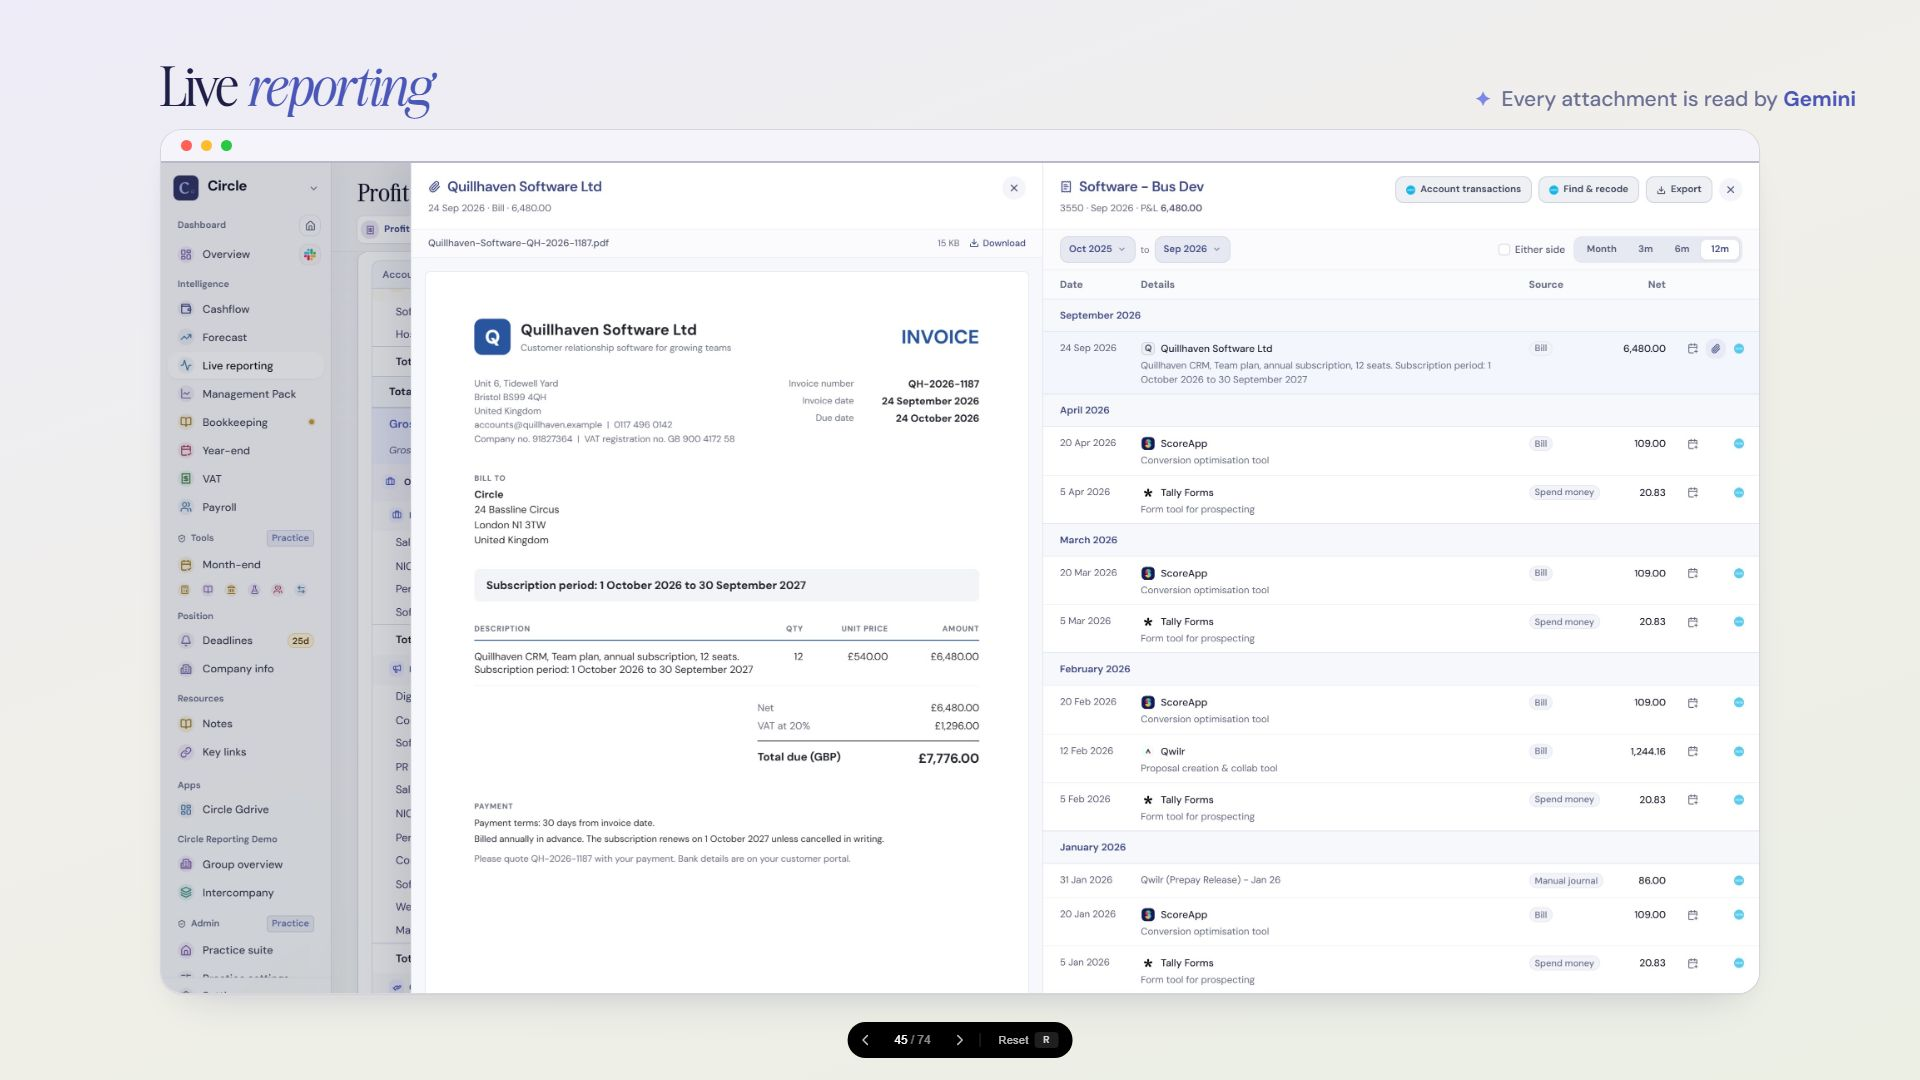
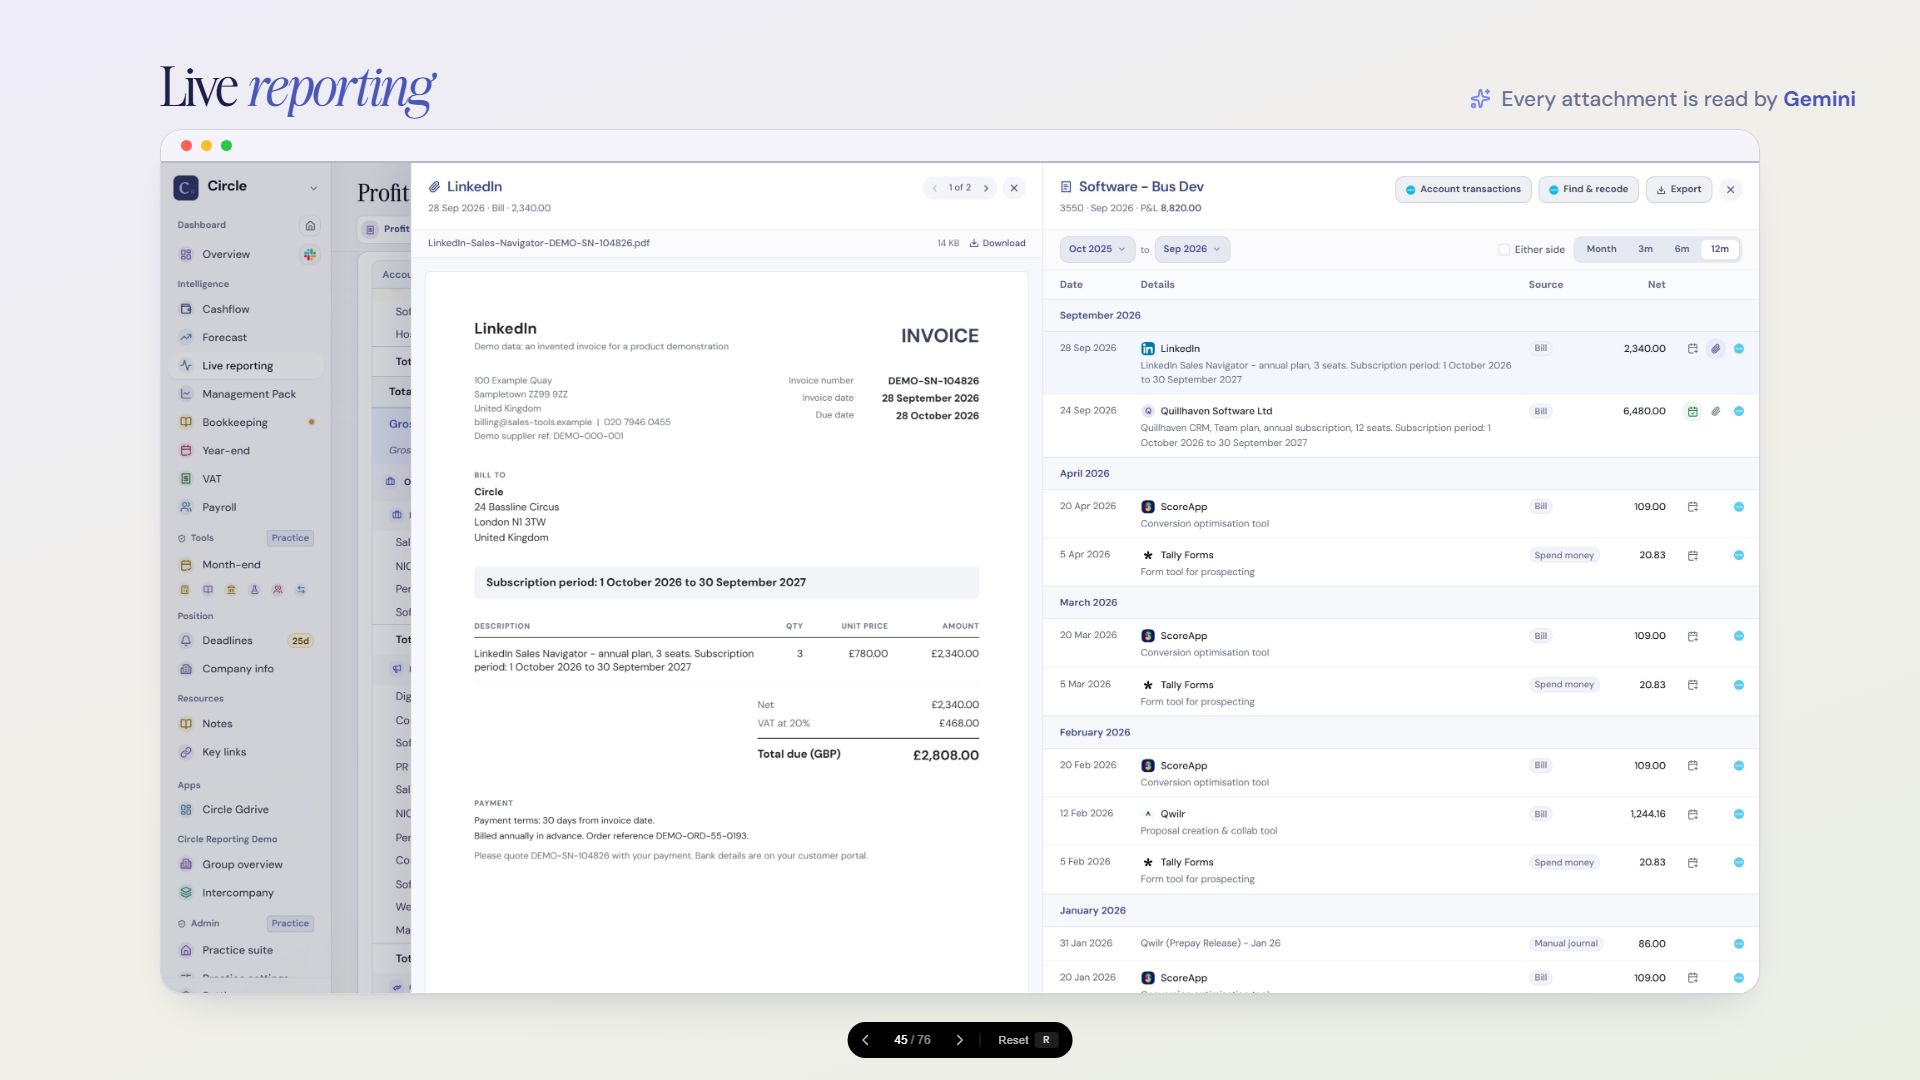
Auto Bank Wreck: the live reporting and AI findings run on the LinkedIn bill

diff --git a/presentations/auto-bank-wreck/index.html b/presentations/auto-bank-wreck/index.html
@@ -2852,7 +2852,7 @@ deck-stage { background: #0a0a0a; }
       <div class="feat-head"><h2 class="display">Live <em>reporting</em></h2><p class="ai-note">Every attachment is read by <b>Gemini</b></p></div>
       <div class="fill center-y">
         <div class="shot-wrap">
-          <figure class="shot window"><img src="images/slides/41a-app-showcase/live-1-pl-oct06.jpg" alt="Circle live profit and loss, straight from Xero: every account month by month against budget"><figcaption></figcaption></figure>
+          <figure class="shot window"><img src="images/slides/41a-app-showcase/live-1-pl-li.jpg" alt="Circle live profit and loss, straight from Xero: every account month by month against budget"><figcaption></figcaption></figure>
         </div>
       </div>
 
@@ -2867,7 +2867,7 @@ deck-stage { background: #0a0a0a; }
       <div class="feat-head"><h2 class="display">Live <em>reporting</em></h2><p class="ai-note">Every attachment is read by <b>Gemini</b></p></div>
       <div class="fill center-y">
         <div class="shot-wrap">
-          <figure class="shot window"><img src="images/slides/41a-app-showcase/live-2-listing-oct06.jpg" alt="One figure opened to its transactions: twelve months of software bills, each with its supplier logo"><figcaption></figcaption></figure>
+          <figure class="shot window"><img src="images/slides/41a-app-showcase/live-2-listing-li.jpg" alt="One figure opened to its transactions: twelve months of software bills, each with its supplier logo"><figcaption></figcaption></figure>
         </div>
       </div>
 
@@ -2882,7 +2882,7 @@ deck-stage { background: #0a0a0a; }
       <div class="feat-head"><h2 class="display">Live <em>reporting</em></h2><p class="ai-note">Every attachment is read by <b>Gemini</b></p></div>
       <div class="fill center-y">
         <div class="shot-wrap">
-          <figure class="shot window"><img src="images/slides/41a-app-showcase/live-3-invoice-oct06.jpg" alt="One of those bills opened to the invoice attached in Xero: an annual subscription with its subscription period"><figcaption></figcaption></figure>
+          <figure class="shot window"><img src="images/slides/41a-app-showcase/live-3-invoice-li.jpg" alt="One of those bills opened to the invoice attached in Xero: an annual subscription with its subscription period"><figcaption></figcaption></figure>
         </div>
       </div>
 
@@ -2897,8 +2897,8 @@ deck-stage { background: #0a0a0a; }
       <div class="feat-head"><h2 class="display">Live <em>reporting</em></h2><p class="ai-note">Every attachment is read by <b>Gemini</b></p></div>
       <div class="fill center-y">
         <div class="shot-wrap">
-          <i class="lens" aria-hidden="true" style="left: 430px; top: 284px; width: 340px; height: 340px; background-size: 2214px auto; background-image: url('images/slides/41a-app-showcase/live-4-menu-oct06.jpg'); background-position: -1819px -220px;"></i>
-          <figure class="shot window"><img src="images/slides/41a-app-showcase/live-4-menu-oct06.jpg" alt="The same bill opened to its schedule menu: add prepayment, add accrual, or attach the invoice to an accrual already in the schedule"><figcaption></figcaption></figure>
+          <i class="lens" aria-hidden="true" style="left: 430px; top: 284px; width: 340px; height: 340px; background-size: 2214px auto; background-image: url('images/slides/41a-app-showcase/live-4-menu-li.jpg'); background-position: -1825px -197px;"></i>
+          <figure class="shot window"><img src="images/slides/41a-app-showcase/live-4-menu-li.jpg" alt="The same bill opened to its schedule menu: add prepayment, add accrual, or attach the invoice to an accrual already in the schedule"><figcaption></figcaption></figure>
         </div>
       </div>
 
@@ -2913,8 +2913,8 @@ deck-stage { background: #0a0a0a; }
       <div class="feat-head"><h2 class="display">AI <em>findings</em></h2><p class="ai-note">Every attachment is read by <b>Gemini</b></p></div>
       <div class="fill center-y">
         <div class="shot-wrap">
-          <i class="lens" aria-hidden="true" style="left: 120px; top: 470px; width: 380px; height: 380px; background-size: 2080px auto; background-image: url('images/slides/41a-app-showcase/ai-finding-oct06.jpg'); background-position: -819px -378px;"></i>
-          <figure class="shot window"><img src="images/slides/41a-app-showcase/ai-finding-oct06.jpg" alt="A finding from an invoice: the AI read the attached invoice, quotes the subscription period it found, and proposes a twelve month prepayment, beside the invoice itself"><figcaption></figcaption></figure>
+          <i class="lens" aria-hidden="true" style="left: 120px; top: 470px; width: 380px; height: 380px; background-size: 2080px auto; background-image: url('images/slides/41a-app-showcase/ai-finding-li.jpg'); background-position: -786px -348px;"></i>
+          <figure class="shot window"><img src="images/slides/41a-app-showcase/ai-finding-li.jpg" alt="A finding from an invoice: the AI read the attached invoice, quotes the subscription period it found, and proposes a twelve month prepayment, beside the invoice itself"><figcaption></figcaption></figure>
         </div>
       </div>
 
@@ -2929,8 +2929,8 @@ deck-stage { background: #0a0a0a; }
       <div class="feat-head"><h2 class="display">AI <em>findings</em></h2><p class="ai-note">Every attachment is read by <b>Gemini</b></p></div>
       <div class="fill center-y">
         <div class="shot-wrap">
-          <i class="lens wide" aria-hidden="true" style="left: 300px; top: 768px; background-size: 2400px auto; background-image: url('images/slides/41a-app-showcase/ai-schedule-oct06.jpg'); background-position: -372px -986px;"></i>
-          <figure class="shot window"><img src="images/slides/41a-app-showcase/ai-schedule-oct06.jpg" alt="The prepayments schedule with the new line the finding added: the software subscription spread at 540 a month from October 2026 to September 2027"><figcaption></figcaption></figure>
+          <i class="lens wide" aria-hidden="true" style="left: 300px; top: 768px; background-size: 2400px auto; background-image: url('images/slides/41a-app-showcase/ai-schedule-li.jpg'); background-position: -372px -1020px;"></i>
+          <figure class="shot window"><img src="images/slides/41a-app-showcase/ai-schedule-li.jpg" alt="The prepayments schedule with the new line the finding added: the LinkedIn subscription spread at 195 a month from October 2026 to September 2027"><figcaption></figcaption></figure>
         </div>
       </div>
 
@@ -3969,8 +3969,8 @@ deck-stage { background: #0a0a0a; }
   {"say":["Click any figure and it opens to its transactions. Here, software: twelve months of bills, supplier by supplier."]},
   {"say":["Click the paperclip on any of them and there is the actual invoice from Xero, beside the line it belongs to. An annual subscription, paid up front: the period is right there on it."]},
   {"say":["And from that same line: add a prepayment, add an accrual, or attach it to an accrual already in the schedule. On the fly. Behind it, every attachment in Xero gets read by GenAI to find the period it covers."]},
-  {"say":["And this is what it does with every attachment. It has read that invoice, it quotes the line it found, subscription period first of October to the thirtieth of September, and it proposes the prepayment: twelve months, five hundred and forty a month, to the right account. One click adds it to the schedule. I stay in charge of the click."]},
-  {"say":["One click, and it is in the schedule: five hundred and forty a month from October, linked back to the invoice, ready to post to Xero with everything else at month end."]},
+  {"say":["And this is what it does with every attachment. It has read that invoice, it quotes the line it found, subscription period first of October to the thirtieth of September, and it proposes the prepayment: twelve months, a hundred and ninety-five a month, to the right account. One click adds it to the schedule. I stay in charge of the click."]},
+  {"say":["One click, and it is in the schedule: a hundred and ninety-five a month from October, linked back to the invoice, ready to post to Xero with everything else at month end."]},
   {"say":["Bookkeeping workflow and comms: what is outstanding, who is waiting on whom, and the messages to the client in one place."]},
   {"say":["Month end. Prepayments and accruals on the left, synced to Xero. And the other month-end processes run the same way: payroll reallocations, direct costs, the corporation tax accrual, each one a schedule that posts its own journal."]},
   {"say":["Payroll. The review on the left: this month against last, every variance explained. The journal it posts in the middle, balanced. And the client approves it in Slack."]},
